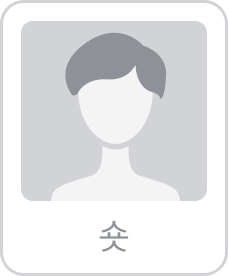
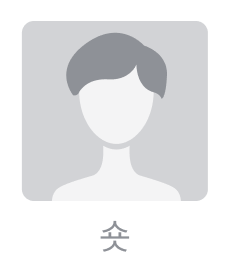
chore: 이미지 파일 수정 및 테두리 속성 설정

diff --git a/src/views/ApplicationPage/components/HairTypeInput.tsx b/src/views/ApplicationPage/components/HairTypeInput.tsx
@@ -56,6 +56,8 @@ const S = {
   HairTypeImg: styled.img<{ $isActive: boolean }>`
     width: 100%;
     max-height: 100%;
+    border: ${({ $isActive, theme }) =>
+      $isActive ? `1.25px solid ${theme.colors.moddy_blue}` : `1px solid ${theme.colors.moddy_gray20}`};
     border-radius: 8px;
 
     box-shadow: ${({ $isActive, theme }) => ($isActive ? theme.effects.shadow3 : 'none')};
